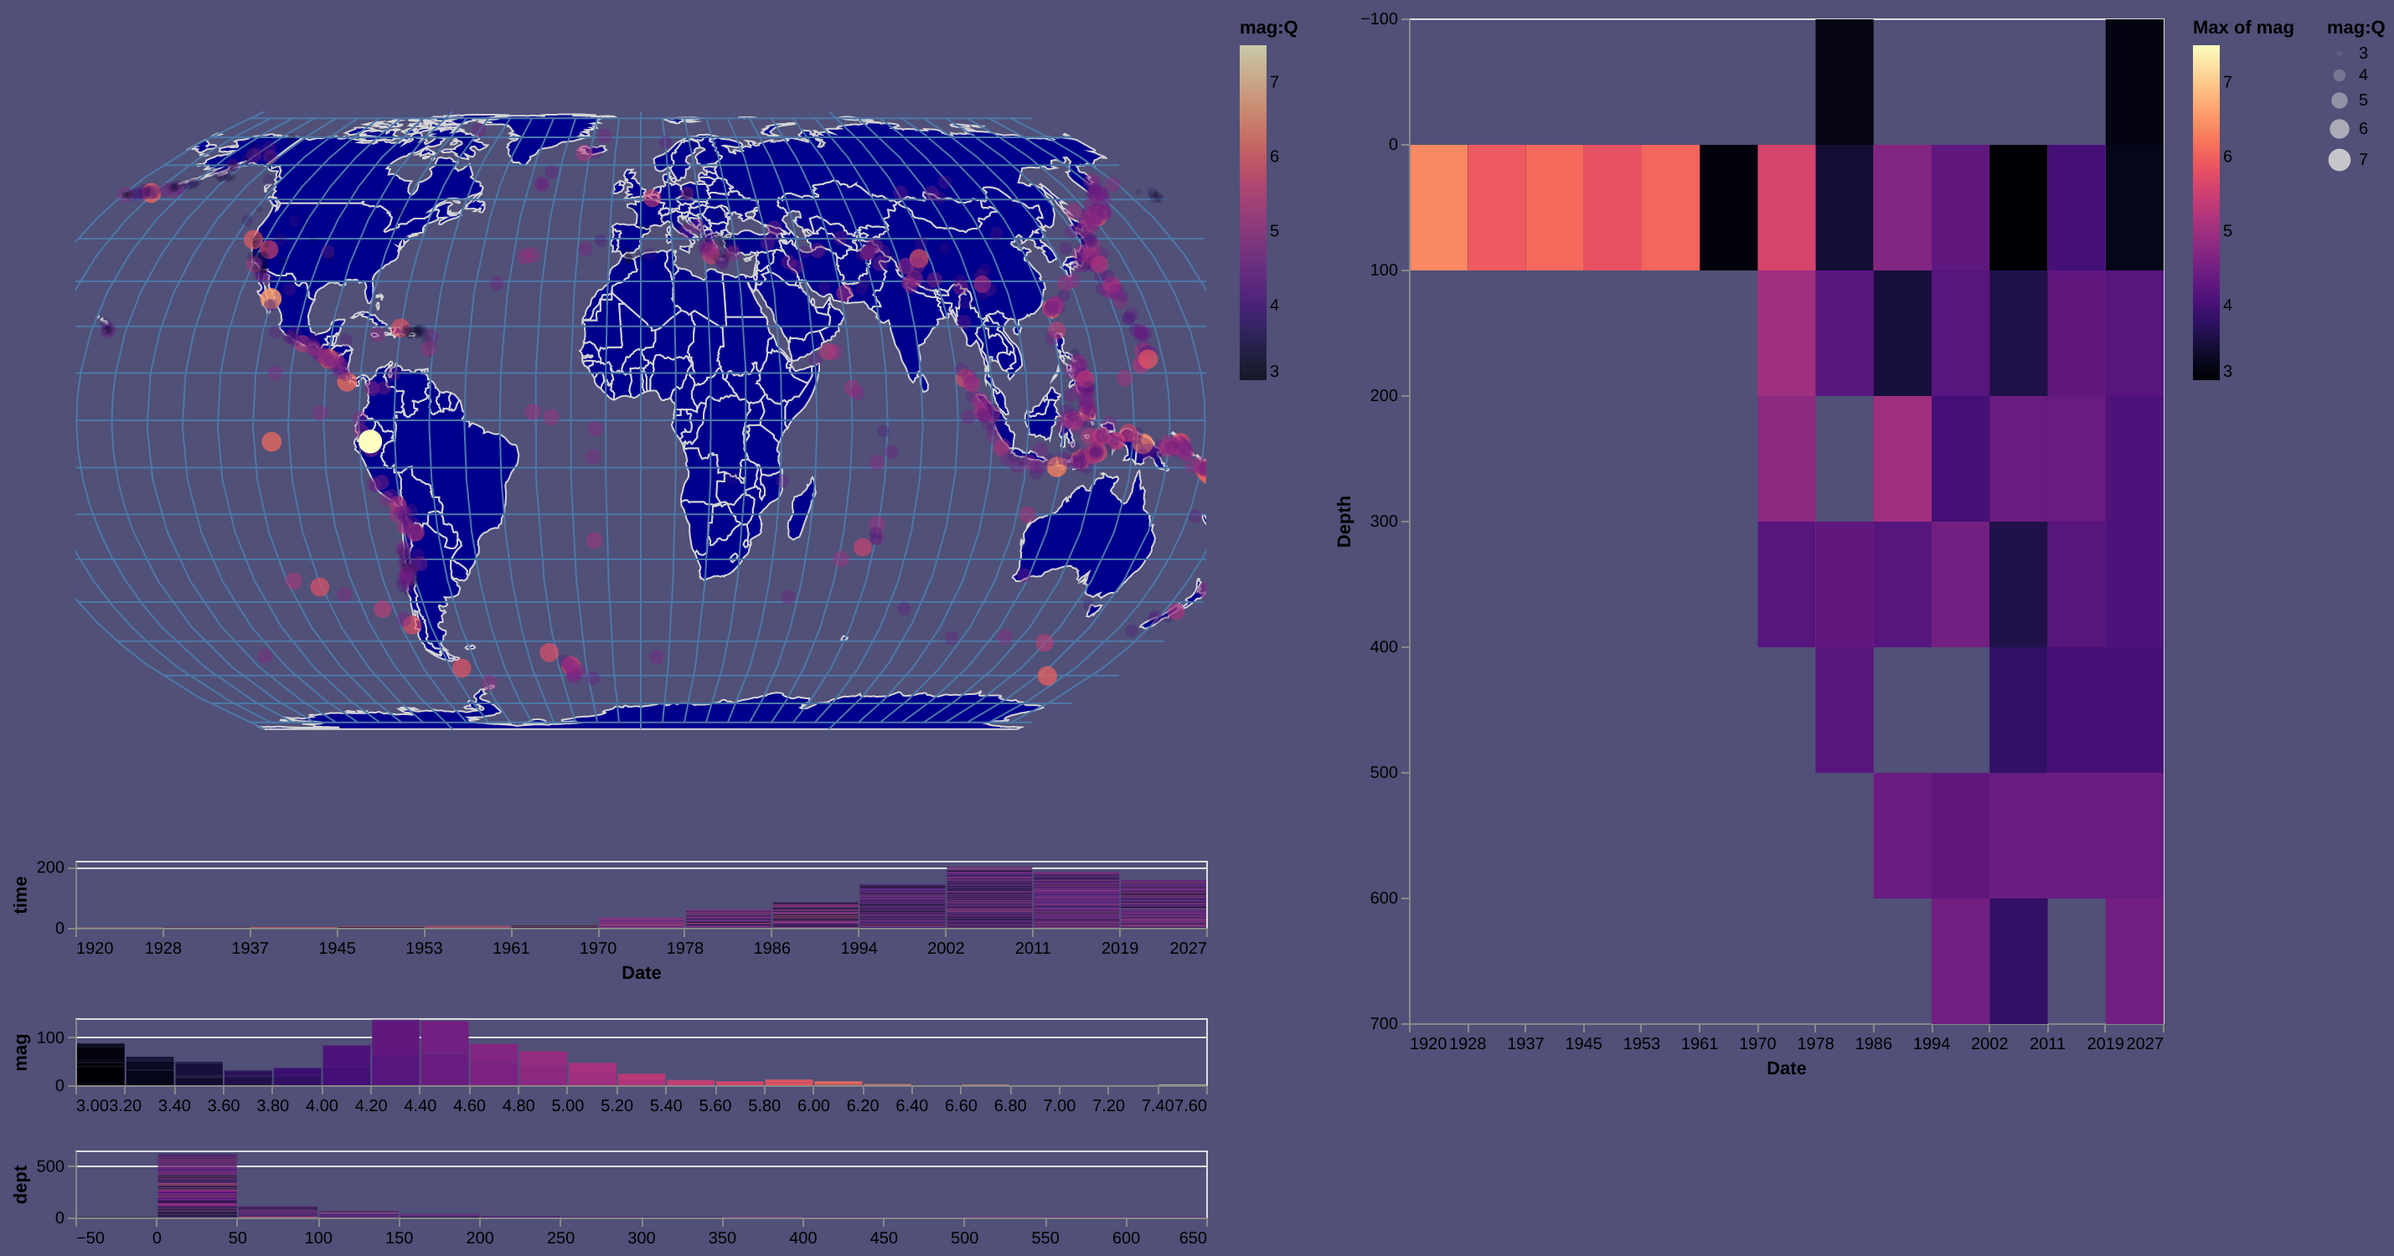
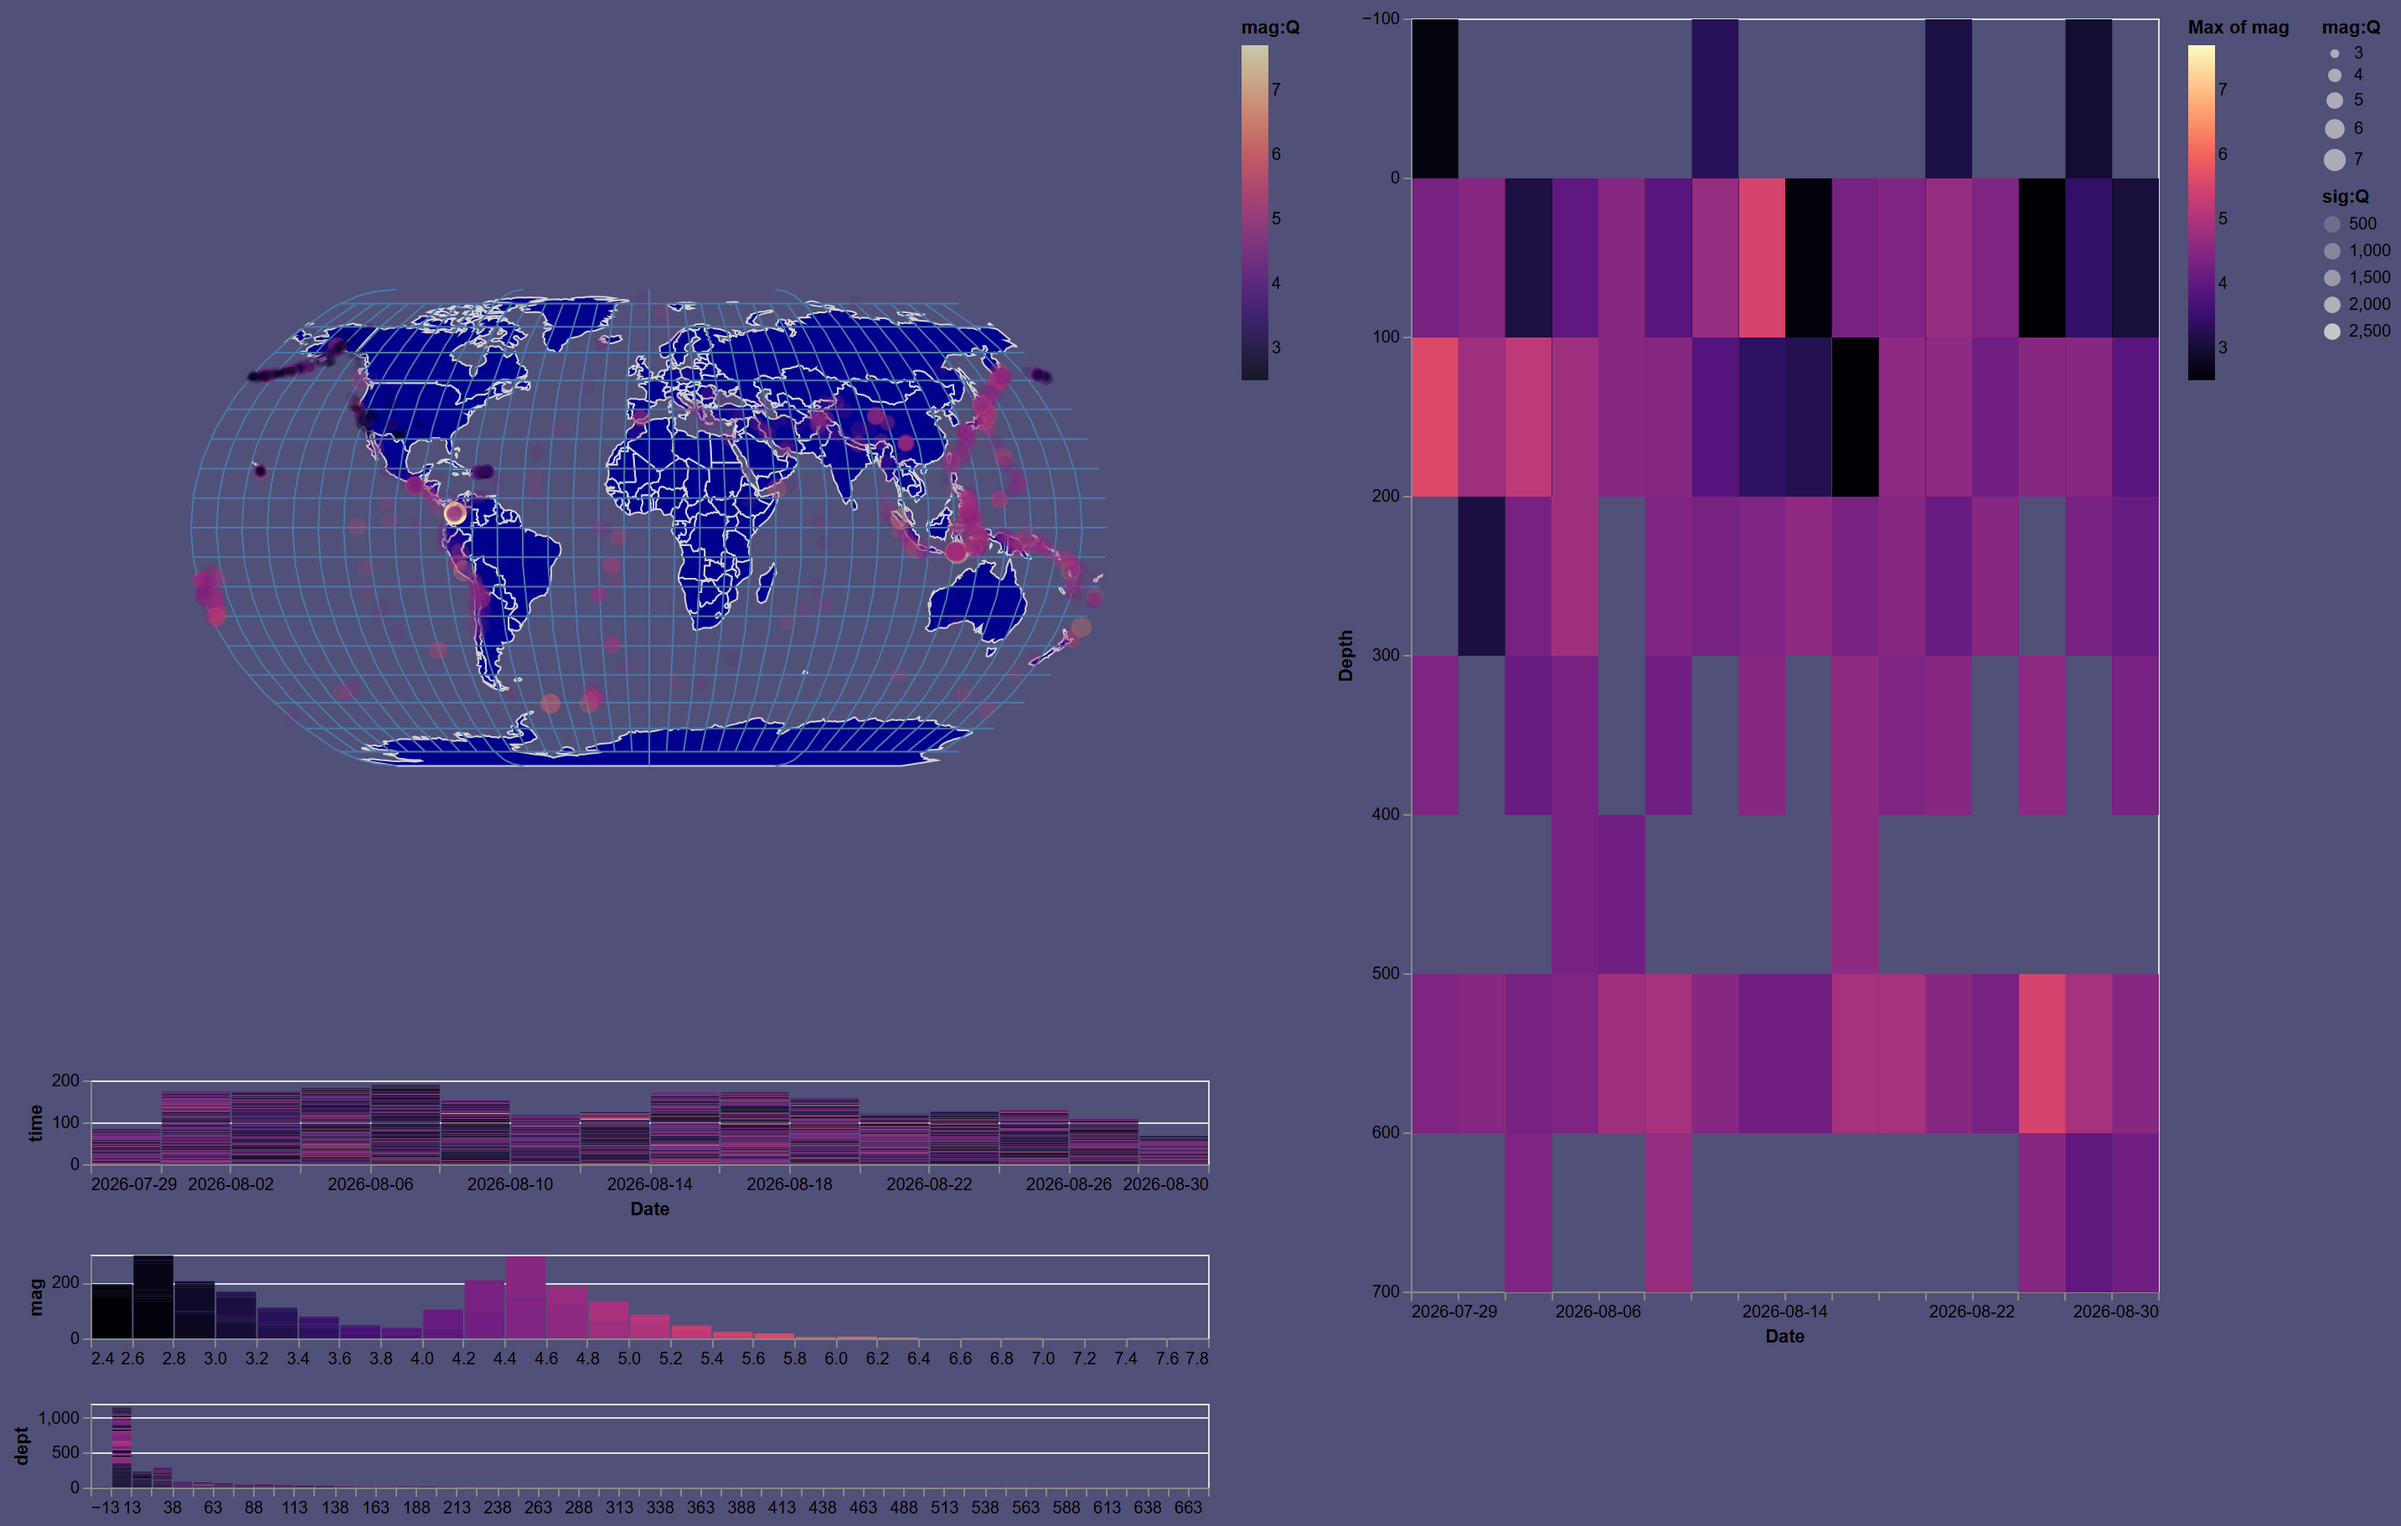
docs: recapture the README figures from the fixed app
Both figures predated the fixes in #2 and showed the app in its broken
state:

- app-ui.png had the nav reading "Load - /load" and "Viz - /viz" over an
  unstyled white header — the state before the route rename, the removal
  of the invented /viz stub, and the restored #header rule.
- dashboard.png binned depth in ~50 km steps, the maxbins=30 fallback
  rather than the fixed 12.5 km bins.

Recaptured from the running app, which also shows the restored daily
time-axis granularity the elif regression had suppressed. The new shots
use a wider query (M2.5+ over the past 30 days, 2,251 events) with the
map coloured by magnitude: at the default color=depth almost every point
renders near-black against a dark map, because the depth distribution is
so heavily skewed toward the shallow end.

Captured by docs/make_figures.mjs, added here so the figures can be
regenerated rather than hand-shot. It drives the real app over the
Chrome DevTools Protocol — the magnitude slider needs trusted key events,
since a synthetic change re-renders the thumb without pushing the value
into Dash's callback state.

Also links the deployed app, near the top and in Deployment.

diff --git a/README.md b/README.md
@@ -11,7 +11,9 @@ bounds, then explore what comes back through a linked set of views — a world m
 stack of brushable histograms, and a time–depth heatmap. Every view shares the same
 Vega-Lite selections, so a brush drawn in any one of them filters all the others.
 
-![Dashboard visualization: world map of earthquakes with linked histogram filters and a time-depth heatmap](docs/figures/dashboard.png)
+**[Try the live dashboard](https://0be82526-8d32-4767-bbed-2b63946ff944.plotly.app/dashboard)** — hosted on Plotly Cloud, querying the USGS catalog in real time.
+
+![Linked views over 2,251 M2.5+ earthquakes from the past 30 days: a world map coloured by magnitude tracing the Pacific Ring of Fire, brushable time, magnitude and depth histograms, and a time-depth heatmap](docs/figures/dashboard.png)
 
 ## Features
 
@@ -30,7 +32,7 @@ Vega-Lite selections, so a brush drawn in any one of them filters all the others
   yearly, monthly, and daily tick formats based on the span of the loaded data, so a
   one-month query doesn't render every tick as the same month.
 
-![Dashboard user interface: data loader and visualizer control panels](docs/figures/app-ui.png)
+![The data loader and visualizer control panels, with 2,251 records loaded into the sortable data table](docs/figures/app-ui.png)
 
 ## Quick start
 
@@ -116,6 +118,7 @@ exercised directly by the test suite, without standing up a server.
 | `tests/` | pytest suite |
 | `notebooks/` | `eq-dashboard.ipynb`, the self-contained ipywidgets prototype this dashboard grew out of |
 | `docs/figures/` | Images used in this README |
+| `docs/make_figures.mjs` | Regenerates those images by driving the running app with headless Chrome |
 | `pixi.toml` / `pyproject.toml` | Environment, packaging, and tool configuration |
 
 ## Development
@@ -137,9 +140,23 @@ code.
 
 CI runs the same lint and tests on Python 3.11 and 3.12.
 
+### Regenerating the README figures
+
+The figures under `docs/figures/` are captured from the real app rather than hand-cropped.
+Start the app, then drive it with headless Chrome:
+
+```bash
+CHROME="/c/Program Files/Google/Chrome/Application/chrome.exe" node docs/make_figures.mjs
+```
+
+It loads a query, sets the map to colour by magnitude, clicks through Count / Load /
+Visualize, and writes both PNGs. `MIN_MAG`, `COLOR_VAR`, `BASE`, and `OUTDIR` override the
+defaults. Node 22+ only — no npm install, it uses the built-in WebSocket to speak CDP.
+
 ## Deployment
 
-The dashboard is hosted on [Plotly Cloud](https://plotly.com/), running Altair 5.5 on
+The dashboard is hosted on [Plotly Cloud](https://plotly.com/) at
+<https://0be82526-8d32-4767-bbed-2b63946ff944.plotly.app/>, running Altair 5.5 on
 Python 3.13. That version matters: `altair` is pinned to `>=5,<6` here because Altair 6
 emits Vega-Lite v6 specs, while the renderer bundled with `dash-vega-components` speaks
 Vega-Lite v5. Unpinned, the chart still renders but the browser warns about the
